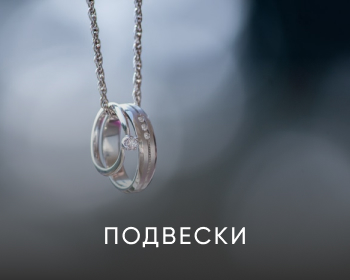
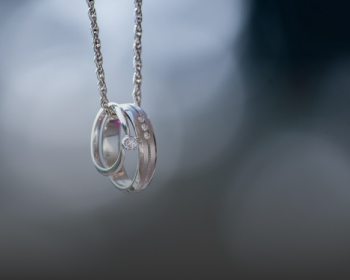
rework

Changed region(s): [[0.2857, 0.8, 0.7143, 0.8857]]

diff --git a/dist/css/style.min.css b/dist/css/style.min.css
@@ -4,4 +4,4 @@
  * Copyright 2011-2019 Twitter, Inc.
  * Licensed under MIT (https://github.com/twbs/bootstrap/blob/master/LICENSE)
  * Forked from Normalize.css, licensed MIT (https://github.com/necolas/normalize.css/blob/master/LICENSE.md)
- */@import url(https://cdn.rawgit.com/mfd/09b70eb47474836f25a21660282ce0fd/raw/e06a670afcb2b861ed2ac4a1ef752d062ef6b46b/Gilroy.css);*,::after,::before{box-sizing:border-box}html{font-family:sans-serif;line-height:1.15;-webkit-text-size-adjust:100%;-webkit-tap-highlight-color:rgba(0,0,0,0)}article,aside,figcaption,figure,footer,header,hgroup,main,nav,section{display:block}body{margin:0;font-family:-apple-system,BlinkMacSystemFont,"Segoe UI",Roboto,"Helvetica Neue",Arial,"Noto Sans",sans-serif,"Apple Color Emoji","Segoe UI Emoji","Segoe UI Symbol","Noto Color Emoji";font-size:1rem;font-weight:400;line-height:1.5;color:#212529;text-align:left;background-color:#fff}[tabindex="-1"]:focus{outline:0!important}hr{box-sizing:content-box;height:0;overflow:visible}h1,h2,h3,h4,h5,h6{margin-top:0;margin-bottom:.5rem}p{margin-top:0;margin-bottom:1rem}abbr[data-original-title],abbr[title]{text-decoration:underline;-webkit-text-decoration:underline dotted;text-decoration:underline dotted;cursor:help;border-bottom:0;-webkit-text-decoration-skip-ink:none;text-decoration-skip-ink:none}address{margin-bottom:1rem;font-style:normal;line-height:inherit}dl,ol,ul{margin-top:0;margin-bottom:1rem}ol ol,ol ul,ul ol,ul ul{margin-bottom:0}dt{font-weight:700}dd{margin-bottom:.5rem;margin-left:0}blockquote{margin:0 0 1rem}b,strong{font-weight:bolder}small{font-size:80%}sub,sup{position:relative;font-size:75%;line-height:0;vertical-align:baseline}sub{bottom:-.25em}sup{top:-.5em}a{color:#007bff;text-decoration:none;background-color:rgba(0,0,0,0)}a:hover{color:#0056b3;text-decoration:underline}a:not([href]):not([tabindex]){color:inherit;text-decoration:none}a:not([href]):not([tabindex]):focus,a:not([href]):not([tabindex]):hover{color:inherit;text-decoration:none}a:not([href]):not([tabindex]):focus{outline:0}code,kbd,pre,samp{font-family:SFMono-Regular,Menlo,Monaco,Consolas,"Liberation Mono","Courier New",monospace;font-size:1em}pre{margin-top:0;margin-bottom:1rem;overflow:auto}figure{margin:0 0 1rem}img{vertical-align:middle;border-style:none}svg{overflow:hidden;vertical-align:middle}table{border-collapse:collapse}caption{padding-top:.75rem;padding-bottom:.75rem;color:#6c757d;text-align:left;caption-side:bottom}th{text-align:inherit}label{display:inline-block;margin-bottom:.5rem}button{border-radius:0}button:focus{outline:1px dotted;outline:5px auto -webkit-focus-ring-color}button,input,optgroup,select,textarea{margin:0;font-family:inherit;font-size:inherit;line-height:inherit}button,input{overflow:visible}button,select{text-transform:none}select{word-wrap:normal}[type=button],[type=reset],[type=submit],button{-webkit-appearance:button}[type=button]:not(:disabled),[type=reset]:not(:disabled),[type=submit]:not(:disabled),button:not(:disabled){cursor:pointer}[type=button]::-moz-focus-inner,[type=reset]::-moz-focus-inner,[type=submit]::-moz-focus-inner,button::-moz-focus-inner{padding:0;border-style:none}input[type=checkbox],input[type=radio]{box-sizing:border-box;padding:0}input[type=date],input[type=datetime-local],input[type=month],input[type=time]{-webkit-appearance:listbox}textarea{overflow:auto;resize:vertical}fieldset{min-width:0;padding:0;margin:0;border:0}legend{display:block;width:100%;max-width:100%;padding:0;margin-bottom:.5rem;font-size:1.5rem;line-height:inherit;color:inherit;white-space:normal}progress{vertical-align:baseline}[type=number]::-webkit-inner-spin-button,[type=number]::-webkit-outer-spin-button{height:auto}[type=search]{outline-offset:-2px;-webkit-appearance:none}[type=search]::-webkit-search-decoration{-webkit-appearance:none}::-webkit-file-upload-button{font:inherit;-webkit-appearance:button}output{display:inline-block}summary{display:list-item;cursor:pointer}template{display:none}[hidden]{display:none!important}*{font-family:Gilroy,sans-serif;margin:0;padding:0}.container{width:1110px;margin:0 auto}.menu{position:absolute;top:25px;z-index:2;display:grid;grid-template-columns:320px 216px 350px;-moz-column-gap:115px;column-gap:115px;align-items:center}.menu__links{display:flex;justify-content:space-between;color:#fff;font-weight:400;font-size:14px;line-height:150%}.menu__links a{list-style-type:none;color:#fff}.menu__active{display:flex;justify-content:space-between}.menu__search{width:80px}.menu__search form{position:relative}.menu__search form input{margin-left:13px;width:80px;border:none;background-color:rgba(0,0,0,0);padding:0 5px;color:#fff}.menu__search form input::-moz-placeholder{color:#fff;font-weight:400;font-size:14px;line-height:150%;text-align:right}.menu__search form input::placeholder{color:#fff;font-weight:400;font-size:14px;line-height:150%;text-align:right}.menu__search form a{position:absolute;display:block;left:-15px}.menu__signup a{font-weight:400;font-size:14px;line-height:150%;color:#fff;list-style-type:none}.promo{position:relative;min-height:900px;background:url(../../img/promo_bg.jpg) center center/cover no-repeat}.promo__title{padding-top:520px;font-family:"Noto Serif";font-style:normal;font-weight:700;font-size:36px;line-height:49px;text-align:center;color:#fff}.promo__btn{display:block;margin:50px auto 0;background:#333;border:1px solid #fff;width:261px;height:51px;font-weight:500;font-family:Gilroy;font-size:18px;line-height:21px;text-align:center;letter-spacing:.1em;text-transform:uppercase;color:#fff}.promo__divider{position:absolute;left:-50px;width:1920px;margin-top:80px;height:2px;border:1px solid #fff}.promo__wrapper{margin-top:120px;display:flex;justify-content:space-between}
+ */@import url(https://cdn.rawgit.com/mfd/09b70eb47474836f25a21660282ce0fd/raw/e06a670afcb2b861ed2ac4a1ef752d062ef6b46b/Gilroy.css);*,::after,::before{box-sizing:border-box}html{font-family:sans-serif;line-height:1.15;-webkit-text-size-adjust:100%;-webkit-tap-highlight-color:rgba(0,0,0,0)}article,aside,figcaption,figure,footer,header,hgroup,main,nav,section{display:block}body{margin:0;font-family:-apple-system,BlinkMacSystemFont,"Segoe UI",Roboto,"Helvetica Neue",Arial,"Noto Sans",sans-serif,"Apple Color Emoji","Segoe UI Emoji","Segoe UI Symbol","Noto Color Emoji";font-size:1rem;font-weight:400;line-height:1.5;color:#212529;text-align:left;background-color:#fff}[tabindex="-1"]:focus{outline:0!important}hr{box-sizing:content-box;height:0;overflow:visible}h1,h2,h3,h4,h5,h6{margin-top:0;margin-bottom:.5rem}p{margin-top:0;margin-bottom:1rem}abbr[data-original-title],abbr[title]{text-decoration:underline;-webkit-text-decoration:underline dotted;text-decoration:underline dotted;cursor:help;border-bottom:0;-webkit-text-decoration-skip-ink:none;text-decoration-skip-ink:none}address{margin-bottom:1rem;font-style:normal;line-height:inherit}dl,ol,ul{margin-top:0;margin-bottom:1rem}ol ol,ol ul,ul ol,ul ul{margin-bottom:0}dt{font-weight:700}dd{margin-bottom:.5rem;margin-left:0}blockquote{margin:0 0 1rem}b,strong{font-weight:bolder}small{font-size:80%}sub,sup{position:relative;font-size:75%;line-height:0;vertical-align:baseline}sub{bottom:-.25em}sup{top:-.5em}a{color:#007bff;text-decoration:none;background-color:rgba(0,0,0,0)}a:hover{color:#0056b3;text-decoration:underline}a:not([href]):not([tabindex]){color:inherit;text-decoration:none}a:not([href]):not([tabindex]):focus,a:not([href]):not([tabindex]):hover{color:inherit;text-decoration:none}a:not([href]):not([tabindex]):focus{outline:0}code,kbd,pre,samp{font-family:SFMono-Regular,Menlo,Monaco,Consolas,"Liberation Mono","Courier New",monospace;font-size:1em}pre{margin-top:0;margin-bottom:1rem;overflow:auto}figure{margin:0 0 1rem}img{vertical-align:middle;border-style:none}svg{overflow:hidden;vertical-align:middle}table{border-collapse:collapse}caption{padding-top:.75rem;padding-bottom:.75rem;color:#6c757d;text-align:left;caption-side:bottom}th{text-align:inherit}label{display:inline-block;margin-bottom:.5rem}button{border-radius:0}button:focus{outline:1px dotted;outline:5px auto -webkit-focus-ring-color}button,input,optgroup,select,textarea{margin:0;font-family:inherit;font-size:inherit;line-height:inherit}button,input{overflow:visible}button,select{text-transform:none}select{word-wrap:normal}[type=button],[type=reset],[type=submit],button{-webkit-appearance:button}[type=button]:not(:disabled),[type=reset]:not(:disabled),[type=submit]:not(:disabled),button:not(:disabled){cursor:pointer}[type=button]::-moz-focus-inner,[type=reset]::-moz-focus-inner,[type=submit]::-moz-focus-inner,button::-moz-focus-inner{padding:0;border-style:none}input[type=checkbox],input[type=radio]{box-sizing:border-box;padding:0}input[type=date],input[type=datetime-local],input[type=month],input[type=time]{-webkit-appearance:listbox}textarea{overflow:auto;resize:vertical}fieldset{min-width:0;padding:0;margin:0;border:0}legend{display:block;width:100%;max-width:100%;padding:0;margin-bottom:.5rem;font-size:1.5rem;line-height:inherit;color:inherit;white-space:normal}progress{vertical-align:baseline}[type=number]::-webkit-inner-spin-button,[type=number]::-webkit-outer-spin-button{height:auto}[type=search]{outline-offset:-2px;-webkit-appearance:none}[type=search]::-webkit-search-decoration{-webkit-appearance:none}::-webkit-file-upload-button{font:inherit;-webkit-appearance:button}output{display:inline-block}summary{display:list-item;cursor:pointer}template{display:none}[hidden]{display:none!important}*{font-family:Gilroy,sans-serif;margin:0;padding:0}.container{width:1110px;margin:0 auto}.menu{position:absolute;top:25px;z-index:2;display:grid;grid-template-columns:320px 216px 350px;-moz-column-gap:115px;column-gap:115px;align-items:center}.menu__links{display:flex;justify-content:space-between;color:#fff;font-weight:400;font-size:14px;line-height:150%}.menu__links a{list-style-type:none;color:#fff}.menu__active{display:flex;justify-content:space-between}.menu__search{width:80px}.menu__search form{position:relative}.menu__search form input{margin-left:13px;width:80px;border:none;background-color:rgba(0,0,0,0);padding:0 5px;color:#fff}.menu__search form input::-moz-placeholder{color:#fff;font-weight:400;font-size:14px;line-height:150%;text-align:right}.menu__search form input::placeholder{color:#fff;font-weight:400;font-size:14px;line-height:150%;text-align:right}.menu__search form a{position:absolute;display:block;left:-15px}.menu__signup a{font-weight:400;font-size:14px;line-height:150%;color:#fff;list-style-type:none}.promo{position:relative;min-height:900px;background:url(../../img/promo_bg.jpg) center center/cover no-repeat}.promo__title{padding-top:520px;font-family:"Noto Serif";font-style:normal;font-weight:700;font-size:36px;line-height:49px;text-align:center;color:#fff}.promo__btn{display:block;margin:50px auto 0;background:#333;border:1px solid #fff;width:261px;height:51px;font-weight:500;font-family:Gilroy;font-size:18px;line-height:21px;text-align:center;letter-spacing:.1em;text-transform:uppercase;color:#fff}.promo__divider{position:absolute;left:-50px;width:1920px;margin-top:80px;height:2px;border:1px solid #fff}.promo__wrapper{margin-top:120px;display:flex;justify-content:space-between}.catalog{padding-top:50px}.catalog__title{font-weight:400;font-size:21px;line-height:140%;color:#333;text-align:center}.catalog__subtitle{font-family:"Noto serif";font-weight:700;font-size:30px;line-height:41px;text-align:center;color:#333}.catalog__tabs{margin-top:60px;display:flex;justify-content:space-between;align-items:center;list-style-type:none}.catalog__tab{position:relative;width:165px;height:55px;font-weight:500;font-size:18px;line-height:21px;text-align:center;text-transform:uppercase;border:1px solid #d6d6d6;background-color:#fff;z-index:10;cursor:pointer}.catalog__tab_active{background-color:#333;color:#fff}.catalog__content{margin-top:55px;display:none;grid-template-columns:repeat(3,minmax(auto,350px));grid-template-rows:repeat(2,minmax(auto,280px));grid-auto-rows:minmax(auto,280px);gap:30px}.catalog__content_active{display:grid}.catalog-item{position:relative}.catalog-item__subtitle{bottom:30px;position:absolute;font-weight:500;font-size:24px;line-height:28px;text-align:center;letter-spacing:.1em;text-transform:uppercase;transform:translateX(-50%);left:50%;color:#fff}

diff --git a/dist/index.html b/dist/index.html
@@ -1,1 +1,1 @@
-<!DOCTYPE html><html lang="ru"><head><meta charset="UTF-8"><meta http-equiv="X-UA-Compatible" content="IE=edge"><meta name="viewport" content="width=device-width,initial-scale=1"><title>OJJO</title><meta name="title" content="OJJO"><meta name="description" content="Долго, дорого, богато!"><!-- Open Graph / Facebook --><meta property="og:type" content="website"><meta property="og:url" content="https://metatags.io/"><meta property="og:title" content="OJJO"><meta property="og:description" content="Долго, дорого, богато!"><meta property="og:image" content="https://metatags.io/assets/meta-tags-16a33a6a8531e519cc0936fbba0ad904e52d35f34a46c97a2c9f6f7dd7d336f2.png"><!-- Twitter --><meta property="twitter:card" content="summary_large_image"><meta property="twitter:url" content="https://metatags.io/"><meta property="twitter:title" content="OJJO"><meta property="twitter:description" content="Долго, дорого, богато!"><meta property="twitter:image" content="https://metatags.io/asssets/meta-tags-16a33a6a8531e519cc0936fbba0ad904e52d35f34a46c97a2c9f6f7dd7d336f2.png"><link rel="stylesheet" href="css/bootstrap-reboot.min.css"><link rel="stylesheet" href="https://cdnjs.cloudflare.com/ajax/libs/animate.css/4.1.1/animate.min.css"><link rel="stylesheet" href="css/style.min.css"></head><body><header><nav><div class="container"><div class="menu"><div class="menu__links"><div class="menu__links-item"><a href="#">Контрагентам</a></div><div class="menu__links-item"><a href="#">Дизайнерам</a></div><div class="menu__links-item"><a href="#">Вакансии</a></div></div><div class="menu__logo"><a href="#"><img src="img/logo.png" alt="logo"></a></div><div class="menu__active"><div class="menu__search"><form><div><a href="#"><img src="icons/menu/search.svg" alt="search"> </a><input type="search" id="mySearch" name="q" placeholder="Поиск"></div></form></div><div class="menu__signup"><a href="#">Вход/Регистрация</a></div><div class="menu__account"><a href="#"><img src="icons/menu/account.svg" alt="account"></a></div><div class="menu__account"><a href="#"><img src="icons/menu/like.svg" alt="like"></a></div></div></div></div></nav></header><section class="promo"><div class="container"><h1 class="promo__title">Долго, дорого, богато!</h1><button class="promo__btn">каталог изделий</button><div class="promo__divider"></div><div class="promo__wrapper"><img src="icons/first_screen__logo.png" alt="logo"> <img src="icons/first_screen__logo.png" alt="logo"> <img src="icons/first_screen__logo.png" alt="logo"> <img src="icons/first_screen__logo.png" alt="logo"> <img src="icons/first_screen__logo.png" alt="logo"> <img src="icons/first-screen__logo_2.png" alt="logo"></div></div></section></body></html>
+<!DOCTYPE html><html lang="ru"><head><meta charset="UTF-8"><meta http-equiv="X-UA-Compatible" content="IE=edge"><meta name="viewport" content="width=device-width,initial-scale=1"><title>OJJO</title><meta name="title" content="OJJO"><meta name="description" content="Долго, дорого, богато!"><!-- Open Graph / Facebook --><meta property="og:type" content="website"><meta property="og:url" content="https://metatags.io/"><meta property="og:title" content="OJJO"><meta property="og:description" content="Долго, дорого, богато!"><meta property="og:image" content="https://metatags.io/assets/meta-tags-16a33a6a8531e519cc0936fbba0ad904e52d35f34a46c97a2c9f6f7dd7d336f2.png"><!-- Twitter --><meta property="twitter:card" content="summary_large_image"><meta property="twitter:url" content="https://metatags.io/"><meta property="twitter:title" content="OJJO"><meta property="twitter:description" content="Долго, дорого, богато!"><meta property="twitter:image" content="https://metatags.io/asssets/meta-tags-16a33a6a8531e519cc0936fbba0ad904e52d35f34a46c97a2c9f6f7dd7d336f2.png"><link rel="stylesheet" href="css/bootstrap-reboot.min.css"><link rel="stylesheet" href="https://cdnjs.cloudflare.com/ajax/libs/animate.css/4.1.1/animate.min.css"><link rel="stylesheet" href="css/style.min.css"></head><body><header><nav><div class="container"><div class="menu"><div class="menu__links"><div class="menu__links-item"><a href="#">Контрагентам</a></div><div class="menu__links-item"><a href="#">Дизайнерам</a></div><div class="menu__links-item"><a href="#">Вакансии</a></div></div><div class="menu__logo"><a href="#"><img src="img/logo.png" alt="logo"></a></div><div class="menu__active"><div class="menu__search"><form><div><a href="#"><img src="icons/menu/search.svg" alt="search"> </a><input type="search" id="mySearch" name="q" placeholder="Поиск"></div></form></div><div class="menu__signup"><a href="#">Вход/Регистрация</a></div><div class="menu__account"><a href="#"><img src="icons/menu/account.svg" alt="account"></a></div><div class="menu__account"><a href="#"><img src="icons/menu/like.svg" alt="like"></a></div></div></div></div></nav></header><section class="promo"><div class="container"><h1 class="promo__title">Долго, дорого, богато!</h1><button class="promo__btn">каталог изделий</button><div class="promo__divider"></div><div class="promo__wrapper"><img src="icons/first_screen__logo.png" alt="logo"> <img src="icons/first_screen__logo.png" alt="logo"> <img src="icons/first_screen__logo.png" alt="logo"> <img src="icons/first_screen__logo.png" alt="logo"> <img src="icons/first_screen__logo.png" alt="logo"> <img src="icons/first-screen__logo_2.png" alt="logo"></div></div></section><section class="catalog"><div class="container"><h2 class="catalog__title">К мероприятиям</h2><div class="catalog__subtitle">Настоящая красота здесь!</div><ul class="catalog__tabs"><li class="catalog__tab catalog__tab_active">Свадьба</li><li class="catalog__tab">МУЖУ</li><li class="catalog__tab">жене</li><li class="catalog__tab">партнеру</li><li class="catalog__tab">коллекции</li><li class="catalog__tab">редкость</li></ul><div class="catalog__content catalog__content_active"><div class="catalog-item"><img src="img/catalog/rings.jpg" alt="rings" class="catalog-item__img"><div class="catalog-item__subtitle">Кольца</div></div><div class="catalog-item"><img src="img/catalog/earrings.jpg" alt="earrings" class="catalog-item__img"><div class="catalog-item__subtitle">серьги</div></div><div class="catalog-item"><img src="img/catalog/pendant.jpg" alt="pendant" class="catalog-item__img"><div class="catalog-item__subtitle">подвески</div></div><div class="catalog-item"><img src="img/catalog/cufflinks.jpg" alt="cufflinks" class="catalog-item__img"><div class="catalog-item__subtitle">запонки</div></div><div class="catalog-item"><img src="img/catalog/bracelets.jpg" alt="bracelets" class="catalog-item__img"><div class="catalog-item__subtitle">браслеты</div></div><div class="catalog-item"><img src="img/catalog/clock.jpg" alt="clock" class="catalog-item__img"><div class="catalog-item__subtitle">часы</div></div></div><div class="catalog__content"><div class="catalog-item"><img src="img/catalog/rings.jpg" alt="rings" class="catalog-item__img"><div class="catalog-item__subtitle">Кольца</div></div><div class="catalog-item"><img src="img/catalog/earrings.jpg" alt="earrings" class="catalog-item__img"><div class="catalog-item__subtitle">серьги</div></div><div class="catalog-item"><img src="img/catalog/pendant.jpg" alt="pendant" class="catalog-item__img"><div class="catalog-item__subtitle">подвески</div></div><div class="catalog-item"><img src="img/catalog/cufflinks.jpg" alt="cufflinks" class="catalog-item__img"><div class="catalog-item__subtitle">запонки</div></div><div class="catalog-item"><img src="img/catalog/bracelets.jpg" alt="bracelets" class="catalog-item__img"><div class="catalog-item__subtitle">браслеты</div></div></div></div></section><script src="https://code.jquery.com/jquery-1.11.0.min.js"></script><script src="https://code.jquery.com/jquery-migrate-1.2.1.min.js"></script><script src="js/script.js"></script></body></html>

diff --git a/src/index.html b/src/index.html
@@ -97,7 +97,72 @@
         </div>
     </section>
 
+    <section class="catalog">
+        <div class="container">
+            <h2 class="catalog__title">К мероприятиям</h2>
+            <div class="catalog__subtitle">Настоящая красота здесь!</div>
+            <ul class="catalog__tabs">
+                <li class="catalog__tab catalog__tab_active">Свадьба</li>
+                <li class="catalog__tab">МУЖУ</li>
+                <li class="catalog__tab">жене</li>
+                <li class="catalog__tab">партнеру</li>
+                <li class="catalog__tab">коллекции</li>
+                <li class="catalog__tab">редкость</li>
+            </ul>
+            <div class="catalog__content catalog__content_active">
+                <div class="catalog-item">
+                    <img src="img/catalog/rings.jpg" alt="rings" class="catalog-item__img">
+                    <div class="catalog-item__subtitle">Кольца</div>
+                </div>
+                <div class="catalog-item">
+                    <img src="img/catalog/earrings.jpg" alt="earrings" class="catalog-item__img">
+                    <div class="catalog-item__subtitle">серьги</div>
+                </div>
+                <div class="catalog-item">
+                    <img src="img/catalog/pendant.jpg" alt="pendant" class="catalog-item__img">
+                    <div class="catalog-item__subtitle">подвески</div>
+                </div>
+                <div class="catalog-item">
+                    <img src="img/catalog/cufflinks.jpg" alt="cufflinks" class="catalog-item__img">
+                    <div class="catalog-item__subtitle">запонки</div>
+                </div>
+                <div class="catalog-item">
+                    <img src="img/catalog/bracelets.jpg" alt="bracelets" class="catalog-item__img">
+                    <div class="catalog-item__subtitle">браслеты</div>
+                </div>
+                <div class="catalog-item">
+                    <img src="img/catalog/clock.jpg" alt="clock" class="catalog-item__img">
+                    <div class="catalog-item__subtitle">часы</div>
+                </div>
+            </div>
+            <div class="catalog__content">
+                <div class="catalog-item">
+                    <img src="img/catalog/rings.jpg" alt="rings" class="catalog-item__img">
+                    <div class="catalog-item__subtitle">Кольца</div>
+                </div>
+                <div class="catalog-item">
+                    <img src="img/catalog/earrings.jpg" alt="earrings" class="catalog-item__img">
+                    <div class="catalog-item__subtitle">серьги</div>
+                </div>
+                <div class="catalog-item">
+                    <img src="img/catalog/pendant.jpg" alt="pendant" class="catalog-item__img">
+                    <div class="catalog-item__subtitle">подвески</div>
+                </div>
+                <div class="catalog-item">
+                    <img src="img/catalog/cufflinks.jpg" alt="cufflinks" class="catalog-item__img">
+                    <div class="catalog-item__subtitle">запонки</div>
+                </div>
+                <div class="catalog-item">
+                    <img src="img/catalog/bracelets.jpg" alt="bracelets" class="catalog-item__img">
+                    <div class="catalog-item__subtitle">браслеты</div>
+                </div>
+            </div>
+        </div>
+    </section>
 
+    <script src="https://code.jquery.com/jquery-1.11.0.min.js"></script>
+    <script src="https://code.jquery.com/jquery-migrate-1.2.1.min.js"></script>
+    <script src="js/script.js"></script>
 
 
 </body>

diff --git a/src/sass/blocks/_catalog.scss b/src/sass/blocks/_catalog.scss
@@ -1,0 +1,82 @@
+.catalog {
+    padding-top: 50px;
+    &__title {
+        font-weight: 400;
+        font-size: 21px;
+        line-height: 140%;
+        color: $main_color;
+        text-align: center;
+    }
+    &__subtitle {
+        font-family: 'Noto serif';
+        font-weight: 700;
+        font-size: 30px;
+        line-height: 41px;
+        text-align: center;
+        color: $main_color;
+    }
+    &__tabs {
+        margin-top: 60px;
+        display: flex;
+        justify-content: space-between;
+        align-items: center;
+        list-style-type: none;
+    }
+    &__tab {
+        position: relative;
+        width: 165px;
+        height: 55px;
+        font-weight: 500;
+        font-size: 18px;
+        line-height: 21px;
+        text-align: center;
+        text-transform: uppercase;
+        border: 1px solid #D6D6D6;
+        background-color: #fff;
+        z-index: 10;
+        cursor: pointer;
+        /* &:after {
+            content: "";
+            display: block;
+            position: absolute;
+            top: 7px;
+            left: 5px;
+            background-color: rgba(0, 0, 0, 0.0001);
+            border: 1px solid #D6D6D6;
+            width: 165px;
+            min-height: 100%;
+            z-index: 1;
+        } */
+        &_active {
+            background-color: $main_color;
+            color: #fff;
+        }
+    }
+    &__content {
+        margin-top: 55px;
+        display: none;
+        grid-template-columns: repeat(3, minmax(auto, 350px));
+        grid-template-rows: repeat(2, minmax(auto, 280px));
+        grid-auto-rows: minmax(auto, 280px);
+        gap: 30px;
+        &_active {
+            display: grid;
+        }
+    }
+    &-item {
+        position: relative;
+        &__subtitle {
+            bottom: 30px;
+            position: absolute;
+            font-weight: 500;
+            font-size: 24px;
+            line-height: 28px;
+            text-align: center;
+            letter-spacing: 0.1em;
+            text-transform: uppercase;
+            transform: translateX(-50%);
+            left: 50%;
+            color: #fff;
+        }
+    }
+}

diff --git a/src/js/script.js b/src/js/script.js
@@ -1,0 +1,7 @@
+$(document).ready(function(){      
+    $('ul.catalog__tabs').on('click', 'li:not(.catalog__tab_active)', function() {
+      $(this)
+        .addClass('.catalog__tab_active').siblings().removeClass('.catalog__tab_active')
+        .closest('div.container').find('div.catalog__content').removeClass('.catalog__content_active').eq($(this).index()).addClass('.catalog__content_active');
+    });
+});

diff --git a/src/sass/style.scss b/src/sass/style.scss
@@ -19,3 +19,4 @@
 
 @import 'blocks/menu';
 @import 'blocks/promo';
+@import 'blocks/catalog';
